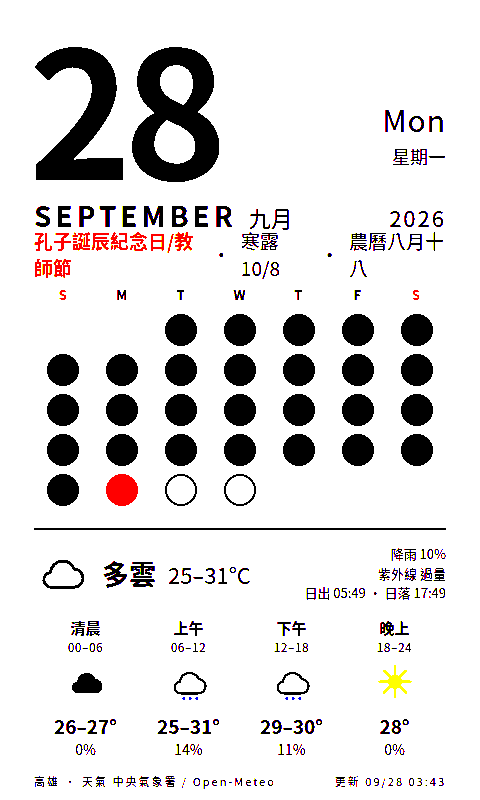
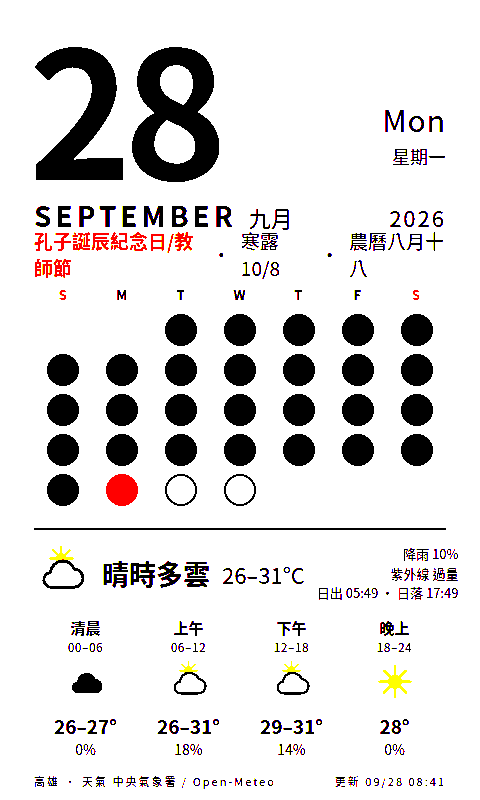
deploy: cf7d1051eb6821bc691ba0ade4beb12cdf9fe0ef

diff --git a/calendar.html b/calendar.html
@@ -54,9 +54,9 @@
   <div class="today"><span class="hl">孔子誕辰紀念日/教師節</span><span>·</span><span class="lunar">寒露 10/8</span><span>·</span><span class="lunar">農曆八月十八</span></div>
   <div class="grid"><div class="h we">S</div><div class="h">M</div><div class="h">T</div><div class="h">W</div><div class="h">T</div><div class="h">F</div><div class="h we">S</div><div class="dot empty"></div><div class="dot empty"></div><div class="dot past" title="1"></div><div class="dot past" title="2"></div><div class="dot past" title="3"></div><div class="dot past" title="4"></div><div class="dot past" title="5"></div><div class="dot past" title="6"></div><div class="dot past" title="7"></div><div class="dot past" title="8"></div><div class="dot past" title="9"></div><div class="dot past" title="10"></div><div class="dot past" title="11"></div><div class="dot past" title="12"></div><div class="dot past" title="13"></div><div class="dot past" title="14"></div><div class="dot past" title="15"></div><div class="dot past" title="16"></div><div class="dot past" title="17"></div><div class="dot past" title="18"></div><div class="dot past" title="19"></div><div class="dot past" title="20"></div><div class="dot past" title="21"></div><div class="dot past" title="22"></div><div class="dot past" title="23"></div><div class="dot past" title="24"></div><div class="dot past" title="25"></div><div class="dot past" title="26"></div><div class="dot past" title="27"></div><div class="dot now" title="28"></div><div class="dot future" title="29"></div><div class="dot future" title="30"></div></div>
   <div class="wx"><div class="line">
-    <div class="wxhead"><svg viewBox="0 0 64 68" xmlns="http://www.w3.org/2000/svg"><path d="M20 50h26a11 11 0 0 0 1-22 15 15 0 0 0-29 4 9 9 0 0 0 2 18z" fill="#fff" stroke="#000" stroke-width="3.5" stroke-linejoin="round"/></svg><span class="desc">多雲</span><span class="temp">25–31°C</span>
+    <div class="wxhead"><svg viewBox="0 0 64 68" xmlns="http://www.w3.org/2000/svg"><g transform="translate(12 -4) scale(.6)"><circle cx="32" cy="32" r="11" fill="#f5c400"/><g stroke="#f5c400" stroke-width="4" stroke-linecap="round"><line x1="32" y1="32" x2="32" y2="8" transform="rotate(0 32 32)"/><line x1="32" y1="32" x2="32" y2="8" transform="rotate(45 32 32)"/><line x1="32" y1="32" x2="32" y2="8" transform="rotate(90 32 32)"/><line x1="32" y1="32" x2="32" y2="8" transform="rotate(135 32 32)"/><line x1="32" y1="32" x2="32" y2="8" transform="rotate(180 32 32)"/><line x1="32" y1="32" x2="32" y2="8" transform="rotate(225 32 32)"/><line x1="32" y1="32" x2="32" y2="8" transform="rotate(270 32 32)"/><line x1="32" y1="32" x2="32" y2="8" transform="rotate(315 32 32)"/></g></g><path d="M20 50h26a11 11 0 0 0 1-22 15 15 0 0 0-29 4 9 9 0 0 0 2 18z" fill="#fff" stroke="#000" stroke-width="3.5" stroke-linejoin="round"/></svg><span class="desc">晴時多雲</span><span class="temp">26–31°C</span>
       <div class="meta">降雨 10%<br>紫外線 過量<br>日出 05:49 · 日落 17:49</div></div>
-    <div class="slots"><div class="slot"><div class="n">清晨</div><div class="hrs">00–06</div><svg viewBox="0 0 64 68" xmlns="http://www.w3.org/2000/svg"><path d="M20 50h26a11 11 0 0 0 1-22 15 15 0 0 0-29 4 9 9 0 0 0 2 18z" fill="#000"/></svg><div class="t">26–27°</div><div class="p dry">0%</div></div><div class="slot"><div class="n">上午</div><div class="hrs">06–12</div><svg viewBox="0 0 64 68" xmlns="http://www.w3.org/2000/svg"><path d="M20 50h26a11 11 0 0 0 1-22 15 15 0 0 0-29 4 9 9 0 0 0 2 18z" fill="#fff" stroke="#000" stroke-width="3.5" stroke-linejoin="round"/><g fill="#0040ff"><circle cx="24" cy="58" r="2.2"/><circle cx="34" cy="58" r="2.2"/><circle cx="44" cy="58" r="2.2"/></g></svg><div class="t">25–31°</div><div class="p dry">14%</div></div><div class="slot"><div class="n">下午</div><div class="hrs">12–18</div><svg viewBox="0 0 64 68" xmlns="http://www.w3.org/2000/svg"><path d="M20 50h26a11 11 0 0 0 1-22 15 15 0 0 0-29 4 9 9 0 0 0 2 18z" fill="#fff" stroke="#000" stroke-width="3.5" stroke-linejoin="round"/><g fill="#0040ff"><circle cx="24" cy="58" r="2.2"/><circle cx="34" cy="58" r="2.2"/><circle cx="44" cy="58" r="2.2"/></g></svg><div class="t">29–30°</div><div class="p dry">11%</div></div><div class="slot"><div class="n">晚上</div><div class="hrs">18–24</div><svg viewBox="0 0 64 68" xmlns="http://www.w3.org/2000/svg"><circle cx="32" cy="32" r="11" fill="#f5c400"/><g stroke="#f5c400" stroke-width="4" stroke-linecap="round"><line x1="32" y1="32" x2="32" y2="8" transform="rotate(0 32 32)"/><line x1="32" y1="32" x2="32" y2="8" transform="rotate(45 32 32)"/><line x1="32" y1="32" x2="32" y2="8" transform="rotate(90 32 32)"/><line x1="32" y1="32" x2="32" y2="8" transform="rotate(135 32 32)"/><line x1="32" y1="32" x2="32" y2="8" transform="rotate(180 32 32)"/><line x1="32" y1="32" x2="32" y2="8" transform="rotate(225 32 32)"/><line x1="32" y1="32" x2="32" y2="8" transform="rotate(270 32 32)"/><line x1="32" y1="32" x2="32" y2="8" transform="rotate(315 32 32)"/></g></svg><div class="t">28°</div><div class="p dry">0%</div></div></div>
+    <div class="slots"><div class="slot"><div class="n">清晨</div><div class="hrs">00–06</div><svg viewBox="0 0 64 68" xmlns="http://www.w3.org/2000/svg"><path d="M20 50h26a11 11 0 0 0 1-22 15 15 0 0 0-29 4 9 9 0 0 0 2 18z" fill="#000"/></svg><div class="t">26–27°</div><div class="p dry">0%</div></div><div class="slot"><div class="n">上午</div><div class="hrs">06–12</div><svg viewBox="0 0 64 68" xmlns="http://www.w3.org/2000/svg"><g transform="translate(12 -4) scale(.6)"><circle cx="32" cy="32" r="11" fill="#f5c400"/><g stroke="#f5c400" stroke-width="4" stroke-linecap="round"><line x1="32" y1="32" x2="32" y2="8" transform="rotate(0 32 32)"/><line x1="32" y1="32" x2="32" y2="8" transform="rotate(45 32 32)"/><line x1="32" y1="32" x2="32" y2="8" transform="rotate(90 32 32)"/><line x1="32" y1="32" x2="32" y2="8" transform="rotate(135 32 32)"/><line x1="32" y1="32" x2="32" y2="8" transform="rotate(180 32 32)"/><line x1="32" y1="32" x2="32" y2="8" transform="rotate(225 32 32)"/><line x1="32" y1="32" x2="32" y2="8" transform="rotate(270 32 32)"/><line x1="32" y1="32" x2="32" y2="8" transform="rotate(315 32 32)"/></g></g><path d="M20 50h26a11 11 0 0 0 1-22 15 15 0 0 0-29 4 9 9 0 0 0 2 18z" fill="#fff" stroke="#000" stroke-width="3.5" stroke-linejoin="round"/></svg><div class="t">26–31°</div><div class="p dry">18%</div></div><div class="slot"><div class="n">下午</div><div class="hrs">12–18</div><svg viewBox="0 0 64 68" xmlns="http://www.w3.org/2000/svg"><g transform="translate(12 -4) scale(.6)"><circle cx="32" cy="32" r="11" fill="#f5c400"/><g stroke="#f5c400" stroke-width="4" stroke-linecap="round"><line x1="32" y1="32" x2="32" y2="8" transform="rotate(0 32 32)"/><line x1="32" y1="32" x2="32" y2="8" transform="rotate(45 32 32)"/><line x1="32" y1="32" x2="32" y2="8" transform="rotate(90 32 32)"/><line x1="32" y1="32" x2="32" y2="8" transform="rotate(135 32 32)"/><line x1="32" y1="32" x2="32" y2="8" transform="rotate(180 32 32)"/><line x1="32" y1="32" x2="32" y2="8" transform="rotate(225 32 32)"/><line x1="32" y1="32" x2="32" y2="8" transform="rotate(270 32 32)"/><line x1="32" y1="32" x2="32" y2="8" transform="rotate(315 32 32)"/></g></g><path d="M20 50h26a11 11 0 0 0 1-22 15 15 0 0 0-29 4 9 9 0 0 0 2 18z" fill="#fff" stroke="#000" stroke-width="3.5" stroke-linejoin="round"/></svg><div class="t">29–31°</div><div class="p dry">14%</div></div><div class="slot"><div class="n">晚上</div><div class="hrs">18–24</div><svg viewBox="0 0 64 68" xmlns="http://www.w3.org/2000/svg"><circle cx="32" cy="32" r="11" fill="#f5c400"/><g stroke="#f5c400" stroke-width="4" stroke-linecap="round"><line x1="32" y1="32" x2="32" y2="8" transform="rotate(0 32 32)"/><line x1="32" y1="32" x2="32" y2="8" transform="rotate(45 32 32)"/><line x1="32" y1="32" x2="32" y2="8" transform="rotate(90 32 32)"/><line x1="32" y1="32" x2="32" y2="8" transform="rotate(135 32 32)"/><line x1="32" y1="32" x2="32" y2="8" transform="rotate(180 32 32)"/><line x1="32" y1="32" x2="32" y2="8" transform="rotate(225 32 32)"/><line x1="32" y1="32" x2="32" y2="8" transform="rotate(270 32 32)"/><line x1="32" y1="32" x2="32" y2="8" transform="rotate(315 32 32)"/></g></svg><div class="t">28°</div><div class="p dry">0%</div></div></div>
   </div></div>
-  <div class="foot"><span>高雄 · 天氣 中央氣象署 / Open-Meteo</span><span>更新 09/28 03:43</span></div>
+  <div class="foot"><span>高雄 · 天氣 中央氣象署 / Open-Meteo</span><span>更新 09/28 08:41</span></div>
 </div></body></html>
